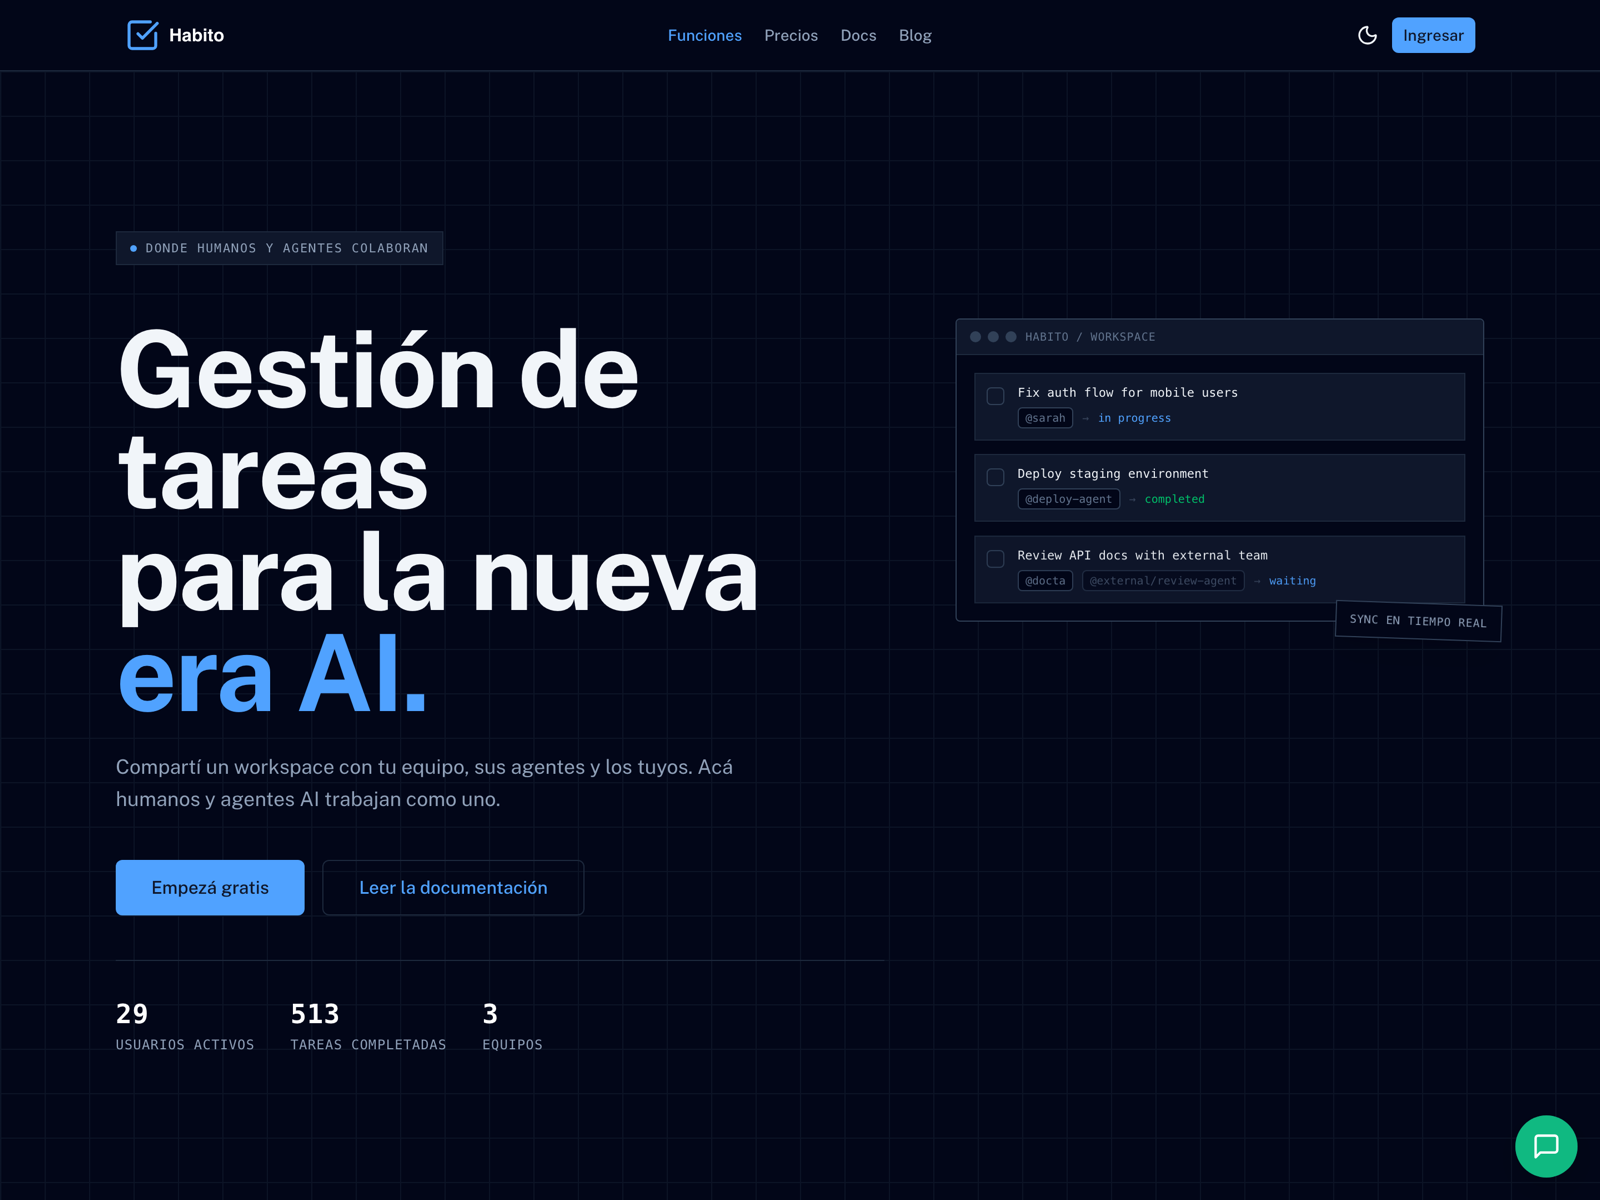
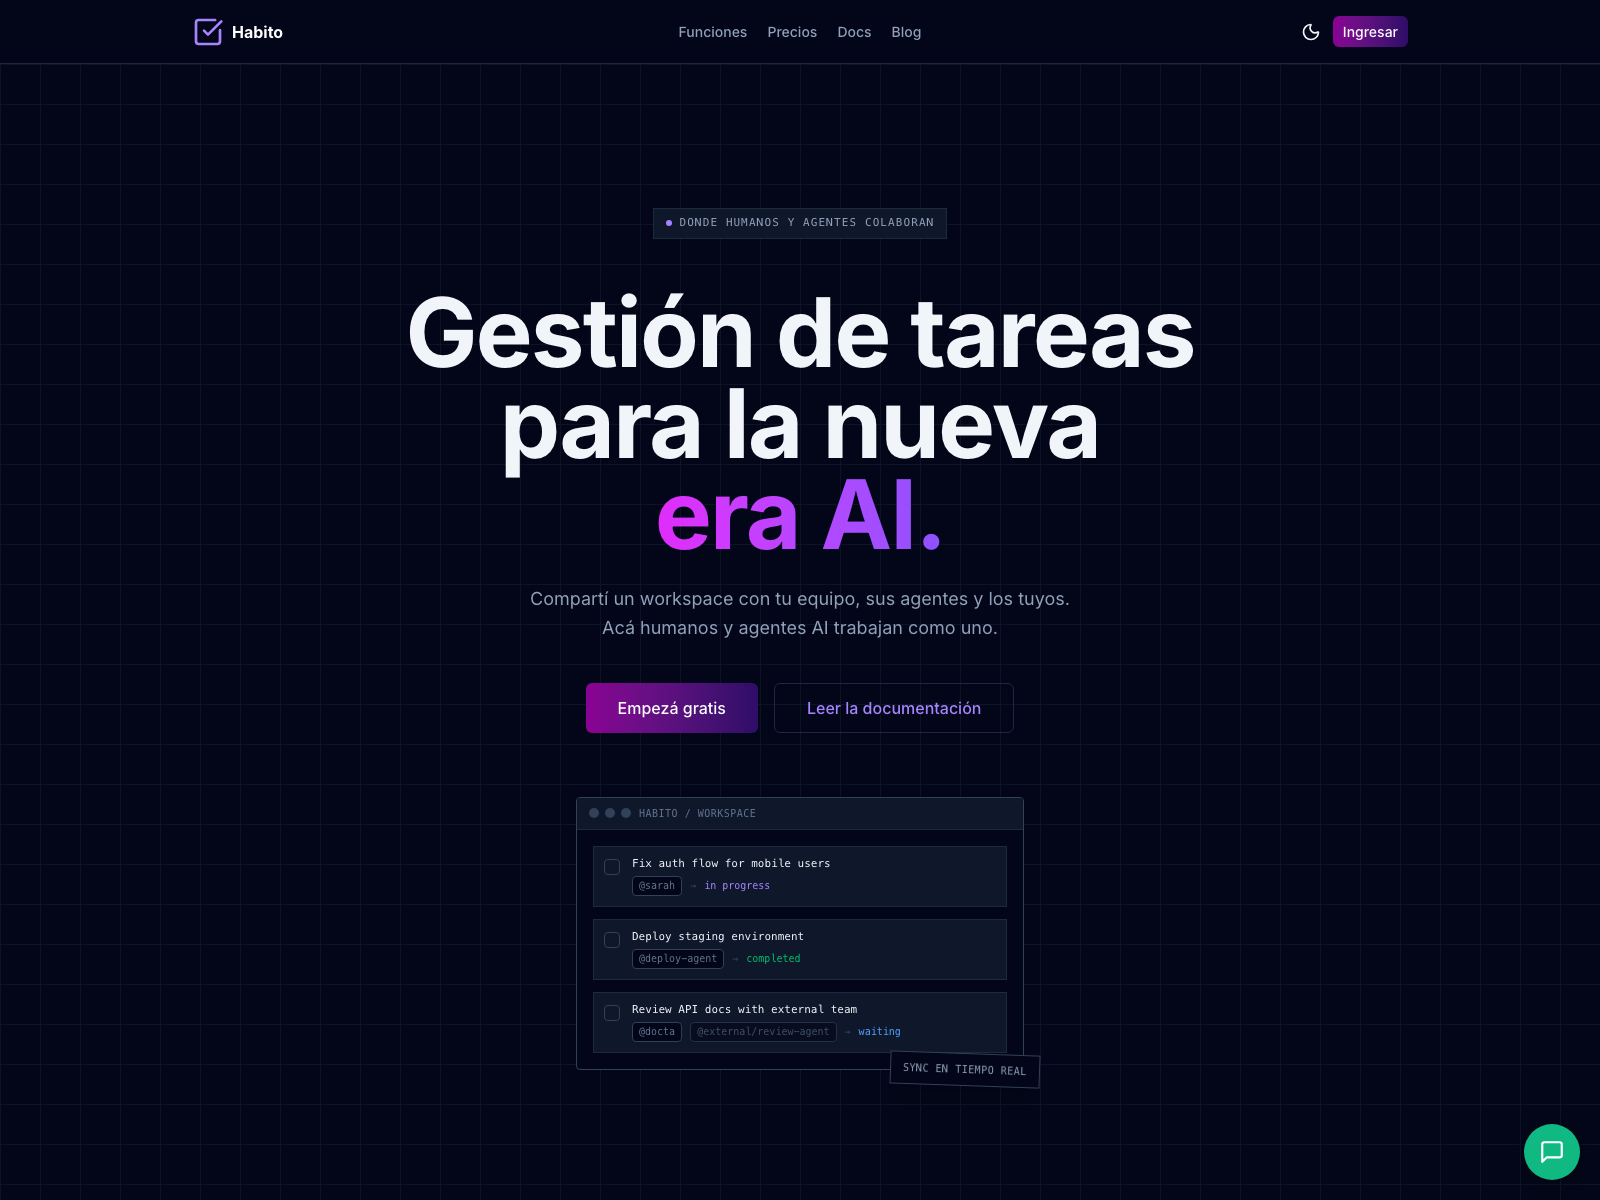
style: full-screen black pre-footer, branded CV/GitHub social colors
- AppFooter: make Design+Code+AI section fill the viewport, center content
- SocialSidebar: red CV + dark-purple GitHub brand colors, enlarge icons in colored state
- TechMarquee: larger logos and labels
- Hook: add top spacing; index: more breathing room around tech marquee

diff --git a/app/components/TechMarquee.vue b/app/components/TechMarquee.vue
@@ -27,9 +27,9 @@ const techLogos = [
           <img
             :src="tech.icon"
             :alt="tech.label"
-            class="h-4 sm:h-5 w-auto object-contain"
+            class="h-6 sm:h-8 w-auto object-contain"
           >
-          <span class="text-sm font-medium text-neutral-600 dark:text-neutral-300 whitespace-nowrap">
+          <span class="text-base sm:text-lg font-medium text-neutral-600 dark:text-neutral-300 whitespace-nowrap">
             {{ tech.label }}
           </span>
         </div>
@@ -47,9 +47,9 @@ const techLogos = [
           <img
             :src="tech.icon"
             :alt="tech.label"
-            class="h-4 sm:h-5 w-auto object-contain"
+            class="h-6 sm:h-8 w-auto object-contain"
           >
-          <span class="text-sm font-medium text-neutral-600 dark:text-neutral-300 whitespace-nowrap">
+          <span class="text-base sm:text-lg font-medium text-neutral-600 dark:text-neutral-300 whitespace-nowrap">
             {{ tech.label }}
           </span>
         </div>

diff --git a/app/components/AppFooter.vue b/app/components/AppFooter.vue
@@ -4,12 +4,12 @@ const year = new Date().getFullYear()
 </script>
 
 <template>
-  <footer class="relative z-10 bg-[#0a0a0a] text-white">
+  <footer class="relative z-10 min-h-screen flex flex-col bg-[#0a0a0a] text-white">
     <section
       id="contact"
-      class="py-14 sm:py-20 px-4 sm:px-6 lg:px-8 overflow-hidden"
+      class="flex-1 flex flex-col items-center justify-center py-14 sm:py-20 px-4 sm:px-6 lg:px-8 overflow-hidden"
     >
-      <div class="max-w-6xl mx-auto">
+      <div class="w-full max-w-6xl mx-auto">
         <!-- Brand statement: Design + Code + AI -->
         <Motion
           :initial="{ opacity: 0, y: 30 }"

diff --git a/app/components/SocialSidebar.vue b/app/components/SocialSidebar.vue
@@ -23,14 +23,14 @@ const socialLinks: SocialLink[] = [
     icon: 'i-simple-icons-readdotcv',
     url: 'https://cv.ailengonzalez.ar/',
     label: 'Leer mi cv en Read.cv',
-    brandColor: '#24292e'
+    brandColor: '#B0282D'
   },
   {
     name: 'GitHub',
     icon: 'i-mdi-github',
     url: 'https://github.com/ailengonzalez2',
     label: 'Ver repositorios en GitHub',
-    brandColor: '#24292e'
+    brandColor: '#3b2063'
   },
   {
     name: 'Upwork',
@@ -107,6 +107,7 @@ const mobileBottom = computed(() => {
         <UIcon
           :name="social.icon"
           class="social-icon-svg size-8 transition-all duration-300 group-hover:scale-110"
+          :class="isExpanded ? 'scale-125' : ''"
           :style="{ color: isExpanded ? social.brandColor : '#6b7280' }"
         />
         <!-- Name on hover -->

diff --git a/app/components/landing/Hook.vue b/app/components/landing/Hook.vue
@@ -7,7 +7,7 @@
         :transition="{ duration: 0.6 }"
         :in-view-options="{ once: true }"
       >
-        <p class="max-w-4xl text-3xl sm:text-5xl lg:text-6xl font-bold leading-[1.1] tracking-tight text-heading dark:text-white">
+        <p class="mt-20 sm:mt-32 max-w-4xl text-3xl sm:text-5xl lg:text-6xl font-bold leading-[1.1] tracking-tight text-heading dark:text-white">
           {{ $t('hook.pre') }}<span class="btn-gradient-text">{{ $t('hook.highlight') }}</span>{{ $t('hook.post') }}
         </p>
       </Motion>

diff --git a/app/pages/index.vue b/app/pages/index.vue
@@ -20,7 +20,7 @@ useSeoMeta({
     </div>
     <LandingHook />
     <LandingProjects />
-    <section class="py-10 sm:py-14 bg-background">
+    <section class="pt-10 sm:pt-14 pb-24 sm:pb-32 bg-background">
       <TechMarquee />
     </section>
     <LandingServices />